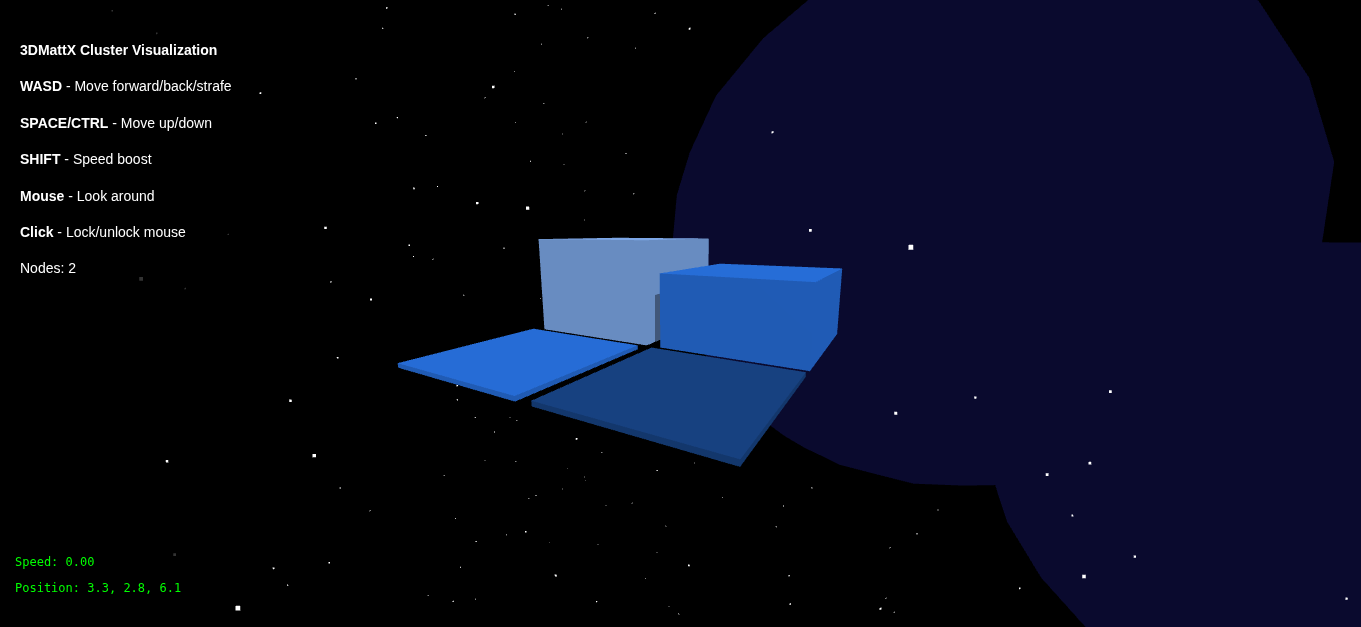
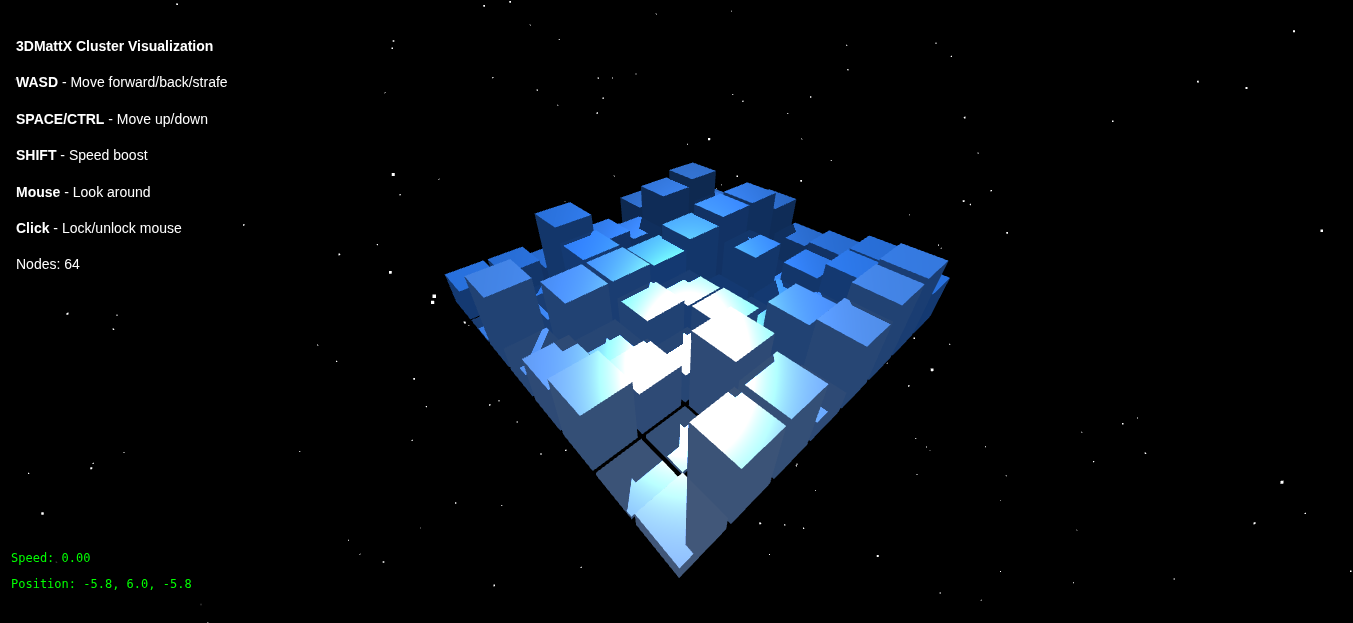
updated cluster visualization

diff --git a/README.md b/README.md
@@ -1,7 +1,7 @@
 # MattX - The Modern Single System Image (SSI) Cluster
 
 <div align="center">
-  <img src="https://raw.githubusercontent.com/brainmatt/mattx/refs/heads/main/tools/3dmattx/3DMattX.png" width="800" alt="3DMattX Cluster Visualization">
+  <img src="https://raw.githubusercontent.com/brainmatt/mattx/refs/heads/main/tools/3dmattx/3DMattX.gif" width="800" alt="3DMattX Cluster Visualization">
   <p><em>3DMattX: Gamified, real-time 3D cluster visualization and load monitoring.</em></p>
 </div>
 